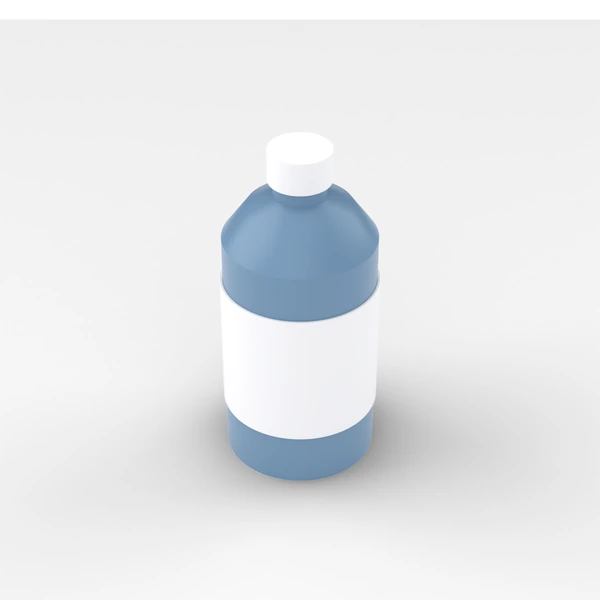
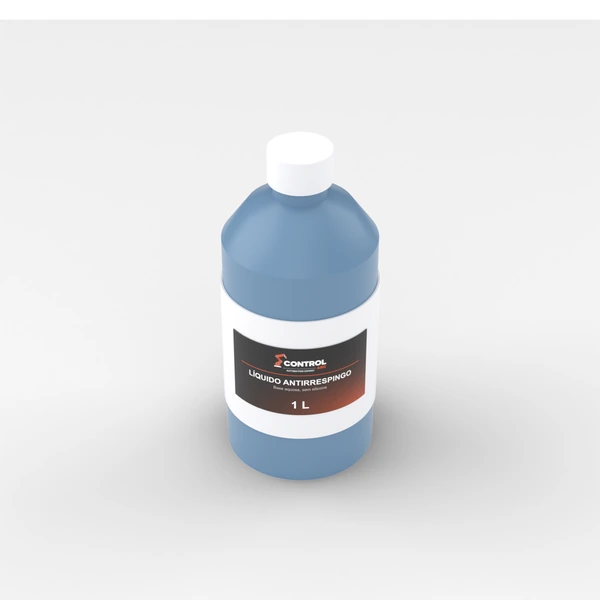
Poe rotulo escrito nas embalagens do antirrespingo
Rotulo em branco entrega que a imagem e render: a embalagem parecia peca
desenhada em CAD, nao produto de prateleira. Agora o galao e o frasco saem
com rotulo impresso — marca da Control ARC, nome do produto, composicao e
volume, tudo lido de produtos.ts. Nada de frase de efeito, selo de
certificacao ou advertencia: inventar dizer de rotulo de produto quimico e
mentira com cara de capricho.

A arte sai de scripts/gerar_rotulos.py, em Arial (a fonte do Brand Kit para
figuras), com o mesmo degrade preto-para-laranja do banner da loja.

O rotulo do frasco e CURVO e acompanha o raio da garrafa; o do galao e
plano, porque a face dele e chata. A plaqueta passou a ser construida com
vertices em coordenada de mundo, sem primitive_plane_add, sem scale e sem
rotation_euler: com os operadores, o transform_apply embaralhava posicao e
giro e as plaquetas iam parar no chao, ao lado do galao. O UV sai da
POSICAO do vertice, nunca da ordem em que ele foi criado.

Tres coisas que custaram tempo e ficaram anotadas:
- a altura da logo ganhou teto, senao no rotulo largo do frasco ela crescia
  com a largura e o texto nao fechava — o proprio guarda-corpo do script
  pegou isso;
- o render agora aceita --cpu, para quando a placa estiver ocupada;
- o que parecia texto girado na face da frente do galao NAO era: medi os
  quatro cantos do UV e estao certos, e uma foto frontal provou. Era a
  perspectiva da face vista a 55 graus.
[…]

Changed region(s): [[0.39, 0.54, 0.63, 0.69]]

diff --git a/demos/loja-controlarc/scripts/render_produtos.py b/demos/loja-controlarc/scripts/render_produtos.py
@@ -29,14 +29,13 @@ from pathlib import Path
 
 RAIZ = Path(__file__).resolve().parent.parent
 CATALOGO = RAIZ / "scripts" / "_catalogo.json"
+ROTULOS = RAIZ / "scripts" / "_rotulos"
 
 # Quanto do quadro a peça ocupa. O comando pede ≈ 70 %.
 OCUPACAO = 0.70
 LADO = 1200
 AMOSTRAS = 128
 
-
-# ── utilidades ──────────────────────────────────────────────────────────────
 
 def limpar():
     bpy.ops.object.select_all(action="SELECT")
@@ -76,6 +75,111 @@ MATERIAIS = {
     "plastico_claro": lambda: material("plastico_claro", (0.86, 0.86, 0.87), 0.0, 0.35),
     "borracha":     lambda: material("borracha", (0.09, 0.09, 0.10), 0.0, 0.62),
 }
+
+
+def material_rotulo(codigo):
+    """O rótulo impresso da embalagem, gerado por `scripts/gerar_rotulos.py`.
+
+    ⚠ RÓTULO EM BRANCO ENTREGA O RENDER. Uma embalagem com uma mancha branca
+    lisa parece peça desenhada em CAD, não produto de prateleira — foi o que o
+    Felipe apontou. A arte traz a marca da Control ARC, o nome do produto, a
+    composição e o volume, tudo lido de `produtos.ts`.
+
+    A imagem cobre a plaqueta inteira, de canto a canto: as proporções em
+    `gerar_rotulos.py` têm de bater com as da plaqueta aqui, senão a marca sai
+    esticada."""
+    nome = f"rotulo_{codigo}"
+    m = bpy.data.materials.get(nome)
+    if m:
+        return m
+    arte = ROTULOS / f"{codigo}.png"
+    if not arte.exists():
+        raise SystemExit(f"falta a arte do rótulo: {arte} — rode scripts/gerar_rotulos.py")
+
+    m = bpy.data.materials.new(nome)
+    m.use_nodes = True
+    nos, ligar = m.node_tree.nodes, m.node_tree.links
+    bsdf = nos["Principled BSDF"]
+    bsdf.inputs["Metallic"].default_value = 0.0
+    bsdf.inputs["Roughness"].default_value = 0.42
+
+    img = bpy.data.images.get(arte.name) or bpy.data.images.load(str(arte))
+    tex = nos.new("ShaderNodeTexImage")
+    tex.image = img
+    tex.extension = "EXTEND"
+    coord = nos.new("ShaderNodeTexCoord")
+    ligar.new(coord.outputs["UV"], tex.inputs["Vector"])
+    ligar.new(tex.outputs["Color"], bsdf.inputs["Base Color"])
+    return m
+
+
+def rotulo(largura, altura, centro, angulo, codigo, raio=None):
+    """Uma plaqueta de rótulo, em pé, virada para fora no ângulo dado.
+
+    Com `raio`, o rótulo vira uma tira CURVA que acompanha o cilindro — é o
+    caso do frasco: etiqueta colada em garrafa segue a curvatura dela, e uma
+    plaqueta plana encostada num corpo redondo salta aos olhos. Sem `raio`,
+    sai plana, que é o certo para a face chata do galão.
+
+    ⚠ OS VÉRTICES SÃO POSTOS DIRETAMENTE EM COORDENADA DE MUNDO, sem
+    `primitive_plane_add`, sem `scale` e sem `rotation_euler`. A primeira
+    versão usava os três: o `transform_apply` da escala embaralhou posição e
+    giro, e as plaquetas foram parar no chão, ao lado do galão.
+
+    ⚠ O UV SAI DA POSIÇÃO DO VÉRTICE, nunca da ordem em que ele foi criado.
+
+    `angulo` é a direção para onde o rótulo olha, no plano XY. Com `raio`,
+    `largura` é comprimento de ARCO e `centro` dá só a altura (z); o eixo da
+    curva é o eixo Z da cena.
+    """
+    cx, cy, cz = centro
+    meia_a = altura / 2
+    me = bpy.data.meshes.new("rotulo")
+    obj = bpy.data.objects.new("rotulo", me)
+    bpy.context.collection.objects.link(obj)
+    bm = bmesh.new()
+    camada = bm.loops.layers.uv.new("UVMap")
+
+    if raio:
+        gomos = 28
+        abertura = largura / raio          # ângulo total do arco, em radianos
+        baixo, cima = [], []
+        for i in range(gomos + 1):
+            a = angulo + (i / gomos - 0.5) * abertura
+            x, y = math.cos(a) * raio, math.sin(a) * raio
+            baixo.append(bm.verts.new((x, y, cz - meia_a)))
+            cima.append(bm.verts.new((x, y, cz + meia_a)))
+        for i in range(gomos):
+            f = bm.faces.new((baixo[i], baixo[i + 1], cima[i + 1], cima[i]))
+            for laco in f.loops:
+                v = laco.vert.co
+                ang = math.atan2(v.y, v.x) - angulo
+                ang = (ang + math.pi) % (2 * math.pi) - math.pi   # normaliza
+                laco[camada].uv = (ang / abertura + 0.5,
+                                   (v.z - cz) / altura + 0.5)
+    else:
+        dx, dy = math.cos(angulo), math.sin(angulo)
+        hx, hy = -dy, dx               # horizontal do rótulo, no plano XY
+        meia_l = largura / 2
+        cantos = [
+            (cx - hx * meia_l, cy - hy * meia_l, cz - meia_a),
+            (cx + hx * meia_l, cy + hy * meia_l, cz - meia_a),
+            (cx + hx * meia_l, cy + hy * meia_l, cz + meia_a),
+            (cx - hx * meia_l, cy - hy * meia_l, cz + meia_a),
+        ]
+        vs = [bm.verts.new(c) for c in cantos]
+        face = bm.faces.new(vs)
+        for laco in face.loops:
+            v = laco.vert.co
+            laco[camada].uv = (
+                ((v.x - cx) * hx + (v.y - cy) * hy) / largura + 0.5,
+                (v.z - cz) / altura + 0.5,
+            )
+
+    bm.to_mesh(me)
+    bm.free()
+    me.materials.append(material_rotulo(codigo))
+    return obj
 
 
 def pintar(obj, chave):
@@ -337,7 +441,7 @@ def p_roldana(canal_mm):
     return [peca, cubo]
 
 
-def p_antirrespingo(litros):
+def p_antirrespingo(codigo, litros):
     """Galão de 5 L ou frasco de 1 L, plástico, rótulo liso e sem texto."""
     if litros >= 5:
         bpy.ops.mesh.primitive_cube_add(size=1, location=(0, 0, 62.0))
@@ -350,11 +454,10 @@ def p_antirrespingo(litros):
         pintar(gargalo, "plastico")
         tampa = tornear([(0, 136.0), (13.5, 136.0), (13.5, 148.0), (0, 148.0)])
         pintar(tampa, "plastico_claro")
-        bpy.ops.mesh.primitive_cube_add(size=1, location=(0, -36.3, 60.0))
-        etiqueta = bpy.context.object
-        etiqueta.scale = (78.0, 0.9, 68.0)
-        bpy.ops.object.transform_apply(scale=True)
-        pintar(etiqueta, "plastico_claro")
+        # Nas DUAS faces visíveis: a câmera vê o galão de quina, e rótulo só
+        # numa delas deixaria metade do produto em branco.
+        etiqueta = rotulo(78.0, 60.0, (0, -36.4, 58.0), math.radians(-90), codigo)
+        etiqueta2 = rotulo(60.0, 46.2, (46.4, 0, 58.0), 0.0, codigo)
     else:
         corpo = tornear([
             (0, 0.0), (32.0, 0.0), (32.0, 104.0), (22.0, 118.0),
@@ -367,9 +470,16 @@ def p_antirrespingo(litros):
         pintar(tampa, "plastico_claro")
         # Faixa de rótulo com espessura de verdade: o perfil anterior tinha os
         # quatro pontos no mesmo raio e gerava superfície degenerada.
-        etiqueta = tornear([(32.1, 24.0), (33.0, 24.0), (33.0, 84.0), (32.1, 84.0)])
+        etiqueta = tornear([(32.1, 24.0), (32.9, 24.0), (32.9, 84.0), (32.1, 84.0)])
         pintar(etiqueta, "plastico_claro")
-    return [corpo, gargalo, tampa, etiqueta]
+        # A plaqueta com a marca fica de frente para a câmera (azimute 35°),
+        # levemente saliente sobre a faixa branca — que é como etiqueta colada
+        # se comporta de verdade.
+        a = math.radians(-35)
+        etiqueta2 = rotulo(
+            64.0, 34.0, (0, 0, 54.0), a, codigo, raio=33.2,
+        )
+    return [corpo, gargalo, tampa, etiqueta, etiqueta2]
 
 
 def _tubo_curvo(graus, raio_tubo, comp_reto, comp_curva, material_chave):
@@ -648,7 +758,7 @@ def construir(prod):
         return p_fresa(mm(medida, 16.0))
 
     if cod.startswith("CA-LT-AR-"):
-        return p_antirrespingo(5 if "5 L" in medida else 1)
+        return p_antirrespingo(cod, 5 if "5 L" in medida else 1)
 
     if cod.startswith("CA-TO-PC-"):
         return p_pescoco(45 if "45" in medida else 22)
@@ -691,7 +801,18 @@ def main():
         destino = saida / f"{prod['codigo']}.png"
         bpy.context.scene.render.filepath = str(destino)
         print(f"[{i}/{len(produtos)}] {prod['codigo']}  {prod['nome']} {prod['medida']}")
-        bpy.ops.render.render(write_still=True)
+        try:
+            bpy.ops.render.render(write_still=True)
+        except RuntimeError as erro:
+            # ⚠ A PLACA É DIVIDIDA COM O RESTO DA MÁQUINA. Navegador aberto,
+            # servidor de desenvolvimento e o próprio aplicativo comem VRAM, e
+            # o render morre com «Out of memory in CUDA queue» — deixando a
+            # imagem ANTIGA no disco, que é o pior dos mundos: parece que
+            # funcionou. Aqui ele refaz na CPU, que é mais lenta e não depende
+            # de ninguém.
+            print(f"    GPU falhou ({erro}); refazendo na CPU")
+            bpy.context.scene.cycles.device = "CPU"
+            bpy.ops.render.render(write_still=True)
 
     print("FIM", len(produtos), "pecas")
 

diff --git a/demos/loja-controlarc/scripts/gerar_rotulos.py b/demos/loja-controlarc/scripts/gerar_rotulos.py
@@ -1,0 +1,156 @@
+# ─────────────────────────────────────────────────────────────────────────────
+# Desenha os rótulos que vão impressos nas embalagens do render.
+#
+#   python scripts/gerar_rotulos.py
+#
+# Só o antirrespingo tem embalagem com rótulo; o resto do catálogo é metal e
+# cerâmica nus. Rótulo em branco entrega que a imagem é render — por isso aqui
+# ele sai escrito, com a marca da Control ARC e o nome do produto.
+#
+# ⚠ TODO O TEXTO VEM DE `src/dados/produtos.ts`. Nome, medida e material saem
+# do registro do próprio produto. Nada de frase de efeito, nada de selo de
+# certificação, nada de advertência de segurança: inventar dizer de rótulo de
+# produto químico é mentira com cara de detalhe caprichado — e, num produto de
+# verdade, é o tipo de coisa que tem lei em cima.
+#
+# A fonte é Arial, que é a do Brand Kit da Control para figuras.
+# ─────────────────────────────────────────────────────────────────────────────
+
+import json
+import re
+from pathlib import Path
+import numpy as np
+from PIL import Image, ImageDraw, ImageFont
+
+RAIZ = Path(__file__).resolve().parent.parent
+# A versão de fundo ESCURO, porque o rótulo é escuro — a de fundo claro tem
+# as letras em preto e sumiria no degradê.
+LOGO = RAIZ / "public" / "marca" / "logo-fundo-escuro.png"
+CATALOGO = RAIZ / "scripts" / "_catalogo.json"
+SAIDA = RAIZ / "scripts" / "_rotulos"
+
+ARIAL = Path("C:/Windows/Fonts/arial.ttf")
+ARIAL_NEGRITO = Path("C:/Windows/Fonts/arialbd.ttf")
+
+LARANJA = (223, 83, 24)
+BRANCO = (255, 255, 255)
+CINZA_CLARO = (205, 203, 200)
+# O degradê do rótulo é o mesmo da abertura do site: preto no canto do texto,
+# laranja quente no canto oposto.
+FUNDO_ESCURO = (18, 18, 18)
+FUNDO_QUENTE = (36, 23, 17)
+
+# Quais produtos têm rótulo, e em que proporção (largura ÷ altura) a plaqueta
+# do render o aplica. Precisa bater, senão a marca sai esticada.
+ROTULADOS = {
+    "CA-LT-AR-05": 78 / 60,
+    "CA-LT-AR-01": 64 / 34,
+}
+
+
+def fonte(caminho, tamanho):
+    return ImageFont.truetype(str(caminho), tamanho)
+
+
+def centrado(d, y, texto, f, cor, largura):
+    l = d.textlength(texto, font=f)
+    d.text(((largura - l) / 2, y), texto, font=f, fill=cor)
+    return y + f.size
+
+
+def volume(medida):
+    """«Galão 5 L» → «5 L»; «Frasco 1 L» → «1 L»."""
+    m = re.search(r"(\d+(?:[.,]\d+)?)\s*L", medida)
+    return f"{m.group(1)} L" if m else medida
+
+
+def degrade(largura, altura):
+    """O fundo do rótulo: preto no alto à esquerda, brasa no pé à direita.
+
+    Mesma família do banner da loja — é o que tira a cara de etiqueta genérica
+    e amarra a embalagem ao resto da identidade. Feito em numpy porque é
+    cálculo por pixel; em laço de Python levaria segundos por rótulo."""
+    ys, xs = np.mgrid[0:altura, 0:largura]
+    x = xs / (largura - 1)
+    y = ys / (altura - 1)
+
+    base = np.clip(0.30 * x + 0.70 * y, 0, 1)[..., None]
+    cor = np.array(FUNDO_ESCURO) * (1 - base) + np.array(FUNDO_QUENTE) * base
+
+    # O brilho laranja, puxado para o canto de baixo à direita.
+    d = np.sqrt(((x - 0.92) / 0.95) ** 2 + ((y - 1.02) / 0.85) ** 2)
+    brilho = np.clip(1 - d, 0, 1) ** 1.5
+    cor = cor + (np.array(LARANJA) - cor) * (brilho * 0.80)[..., None]
+
+    return Image.fromarray(np.clip(cor, 0, 255).astype("uint8"), "RGB")
+
+
+def desenhar(prod, proporcao):
+    altura = 1200
+    largura = int(altura * proporcao)
+    img = degrade(largura, altura)
+    d = ImageDraw.Draw(img)
+
+    margem = int(largura * 0.08)
+    util = largura - 2 * margem
+
+    # ── a marca, no alto ──
+    logo = Image.open(LOGO).convert("RGBA")
+    # ⚠ A ALTURA DA LOGO TEM TETO. Dimensioná-la só pela largura funciona no
+    # rótulo quadrado do galão, mas no rótulo largo do frasco — que dá a volta
+    # na garrafa — a marca crescia junto com a largura e comia o espaço do
+    # texto, até o layout não fechar.
+    lw = int(util * 0.76)
+    lh = int(lw * logo.height / logo.width)
+    if lh > altura * 0.26:
+        lh = int(altura * 0.26)
+        lw = int(lh * logo.width / logo.height)
+    logo = logo.resize((lw, lh), Image.LANCZOS)
+    y = int(altura * 0.08)
+    img.paste(logo, ((largura - lw) // 2, y), logo)
+    y += lh + int(altura * 0.05)
+
+    # ── régua laranja ──
+    d.rectangle(
+        [margem, y, largura - margem, y + max(3, int(altura * 0.008))], fill=LARANJA
+    )
+    y += int(altura * 0.055)
+
+    # ── o nome do produto, que é o que o rótulo precisa gritar ──
+    f_nome = fonte(ARIAL_NEGRITO, int(altura * 0.105))
+    nome = prod["nome"].upper()
+    while d.textlength(nome, font=f_nome) > util and f_nome.size > 20:
+        f_nome = fonte(ARIAL_NEGRITO, f_nome.size - 2)
+    y = centrado(d, y, nome, f_nome, BRANCO, largura) + int(altura * 0.025)
+
+    # ── a composição, em letra miúda ──
+    f_sub = fonte(ARIAL, int(altura * 0.055))
+    y = centrado(d, y, prod["material"], f_sub, CINZA_CLARO, largura)
+
+    # ── o volume, grande, ANCORADO NO RODAPÉ ──
+    # Empilhar de cima para baixo estourava a borda: o «5 L» saía cortado pela
+    # base do rótulo. Daqui para baixo a conta é a partir do pé.
+    f_vol = fonte(ARIAL_NEGRITO, int(altura * 0.155))
+    base_y = altura - int(altura * 0.09) - f_vol.size
+    if base_y < y + int(altura * 0.02):
+        raise SystemExit(f"{prod['codigo']}: o texto nao cabe no rotulo")
+    centrado(d, base_y, volume(prod["medida"]), f_vol, BRANCO, largura)
+
+    return img
+
+
+def main():
+    SAIDA.mkdir(parents=True, exist_ok=True)
+    produtos = {p["codigo"]: p for p in json.loads(CATALOGO.read_text(encoding="utf-8"))}
+    for codigo, proporcao in ROTULADOS.items():
+        prod = produtos.get(codigo)
+        if not prod:
+            raise SystemExit(f"{codigo} não está no catálogo")
+        img = desenhar(prod, proporcao)
+        destino = SAIDA / f"{codigo}.png"
+        img.save(destino)
+        print(f"  {codigo}  {img.width}×{img.height}  {prod['nome']} {prod['medida']}")
+    print(f"\n{len(ROTULADOS)} rótulos → {SAIDA.relative_to(RAIZ)}")
+
+
+main()

diff --git a/demos/loja-controlarc/LEIA-ME.md b/demos/loja-controlarc/LEIA-ME.md
@@ -104,11 +104,18 @@ produto sem render cai na silhueta em vez de mostrar quadrado vazio.
 
 ```bash
 python scripts/extrair_catalogo.py                       # catálogo → JSON
+python scripts/gerar_rotulos.py                          # a arte dos rótulos
 "C:\Program Files\Blender Foundation\Blender 5.2lender.exe" -b     --python scripts/render_produtos.py -- --saida _provas/render
 python scripts/converter_imagens.py                      # PNG → WEBP 1200 e 600
 ```
 
 Para renderizar só algumas peças, acrescente `--so CA-BC-M8-12,CA-BO-CN-16`.
+Se a placa de vídeo estiver ocupada (jogo aberto, navegador pesado), acrescente
+`--cpu`: é mais lento e não depende dela.
+
+Só o antirrespingo tem embalagem com rótulo, e ele sai escrito — marca,
+nome do produto, composição e volume, tudo lido de `produtos.ts`. Rótulo em
+branco entrega que a imagem é render.
 
 ### Trocar por foto de verdade, quando a Control tirar
 
